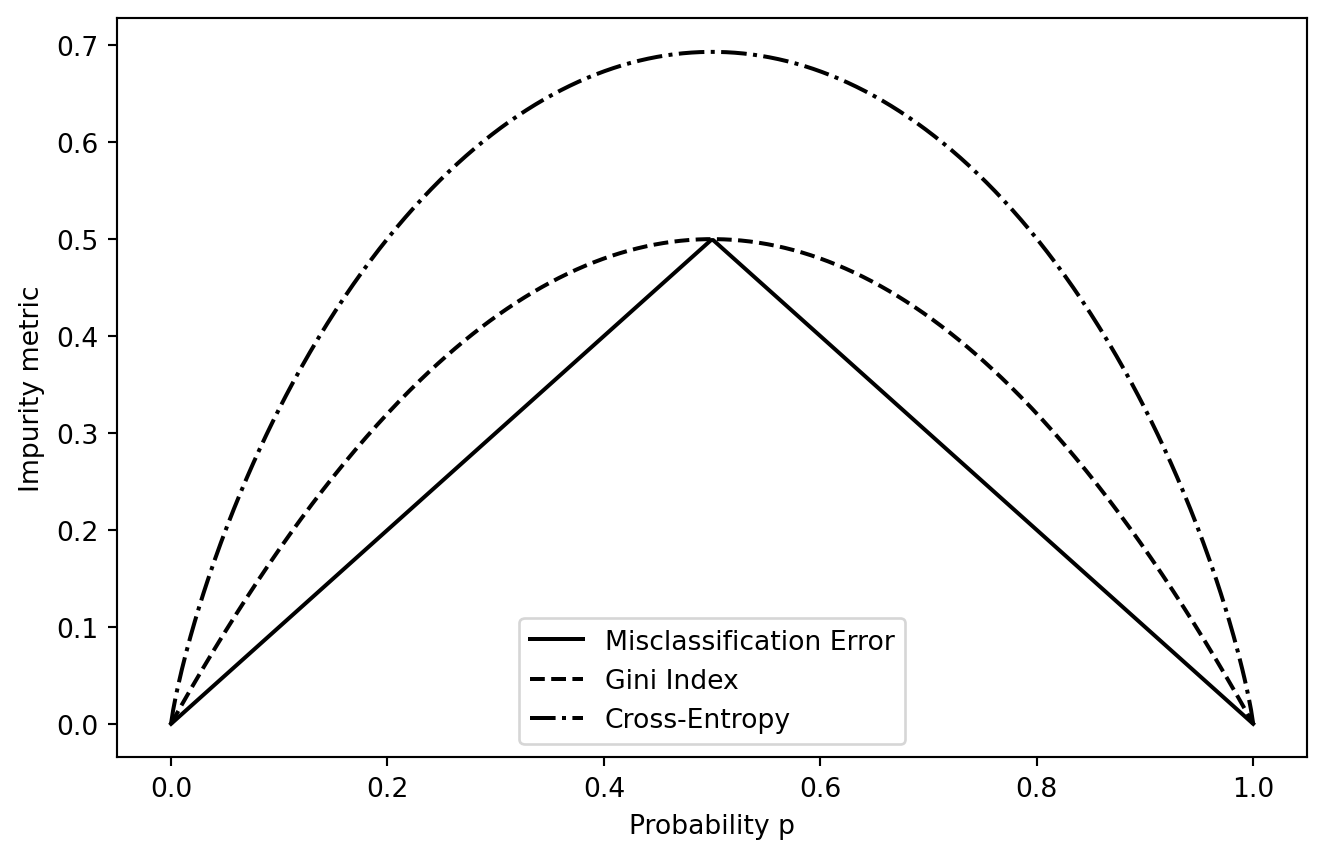
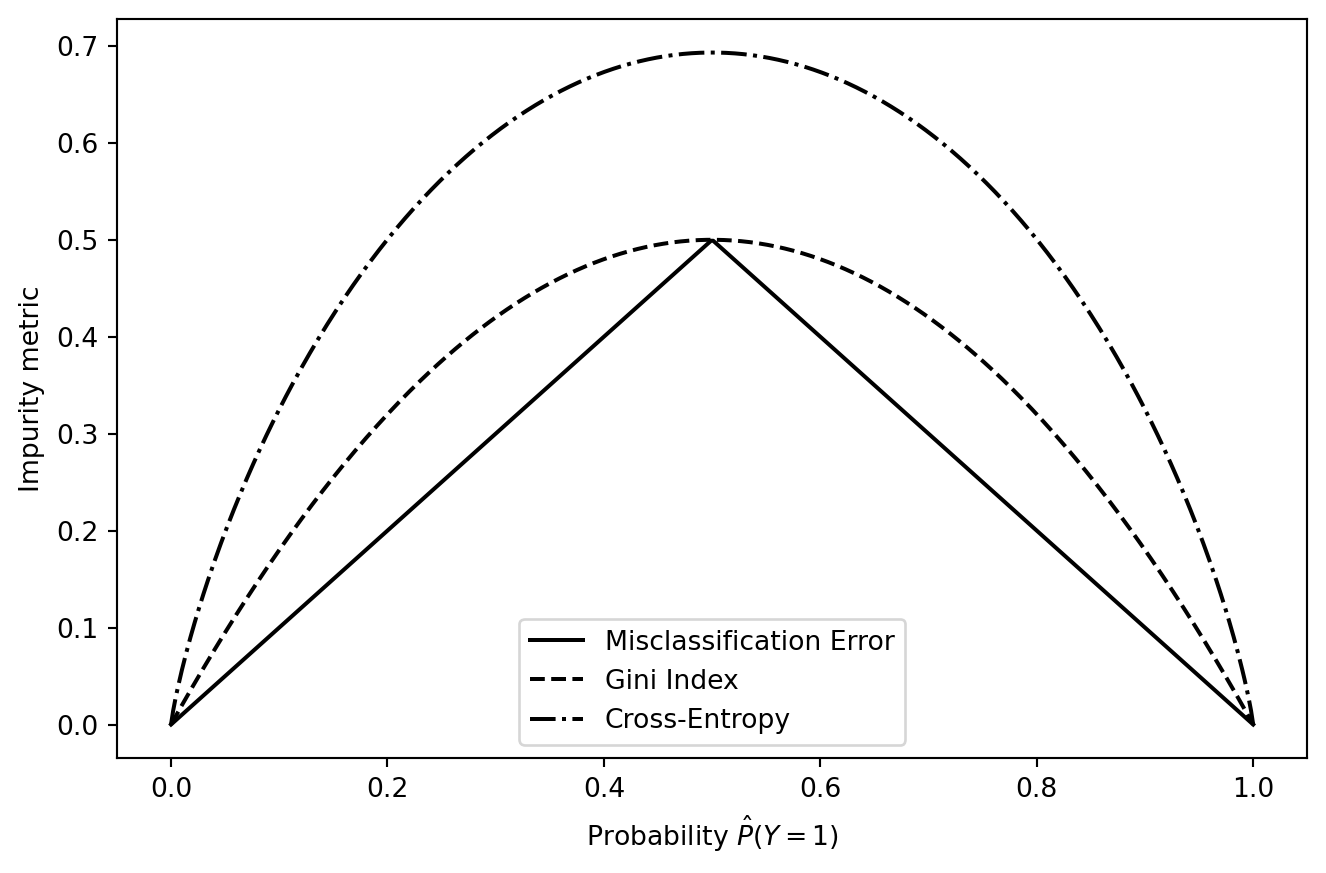
Finishes c09 text

diff --git a/c09_trees_rf/c09_trees_rf.html b/c09_trees_rf/c09_trees_rf.html
@@ -421,7 +421,7 @@
 <section class="slide level2">
 
 <h3 id="what-should-r_1-dots-r_m-be">What should <span class="math inline">\(R_1, \dots, R_M\)</span> be?</h3>
-<div id="0a85755c" class="cell" data-execution_count="1">
+<div id="7dc282fc" class="cell" data-execution_count="1">
 <div class="cell-output cell-output-display">
 <div>
 <figure>
@@ -454,7 +454,7 @@
 <section class="slide level2">
 
 <h3 id="how-does-a-doctor-think">How does a doctor think?</h3>
-<div id="55b20c0f" class="cell" data-execution_count="2">
+<div id="283c4f12" class="cell" data-execution_count="2">
 <div class="cell-output cell-output-display">
 <div>
 <figure>
@@ -717,7 +717,7 @@
 <section class="slide level2">
 
 <h3 id="example-credit-data">Example: credit data</h3>
-<div id="b48b395f" class="cell" data-execution_count="3">
+<div id="eabb4169" class="cell" data-execution_count="3">
 <div class="cell-output cell-output-display">
 <div>
 <figure>
@@ -747,7 +747,7 @@
 <section class="slide level2">
 
 <h3 id="example-credit-data-1">Example: credit data</h3>
-<div id="21ac70ed" class="cell" data-execution_count="4">
+<div id="3bec6b4d" class="cell" data-execution_count="4">
 <div class="cell-output cell-output-display">
 <div>
 <figure>
@@ -781,7 +781,7 @@
 <h2>Classification Trees</h2>
 <aside class="notes">
 <div style="direction:rtl; font-size:16px">
-
+<p>נעבור עכשיו לעצים לקלסיפיקציה לK קלאסים, ונראה שנשאר לנו מעט מאוד לשנות.</p>
 </div>
 <style type="text/css">
         span.MJX_Assistive_MathML {
@@ -800,7 +800,7 @@
 <h3 id="how-to-split-1">How to split?</h3>
 <div>
 <ul>
-<li class="fragment">Criterion: Minimize <span style="color:red;">Impurity</span> on training:</li>
+<li class="fragment">Criterion: Minimize <span style="color:red;">impurity</span> on training:</li>
 <li class="fragment">If <span class="math inline">\(\hat{p}_{kL}, \hat{p}_{kR}\)</span> are the left and right empricial probabilities for each class <span class="math inline">\(k\)</span>, and <span class="math inline">\(\hat{y}_{L}, \hat{y}_{R}\)</span> are the most common classes:
 <ul>
 <li class="fragment">Misclassification error: <span class="math display">\[MC(j,s) = \sum_{i \in L(j,s)} \mathbb{I}\{y_i \neq \hat{y}_L\} + \sum_{i \in R(j,s)} \mathbb{I}\{y_i \neq \hat{y}_R\}\]</span></li>
@@ -812,7 +812,12 @@
 </div>
 <aside class="notes">
 <div style="direction:rtl; font-size:16px">
-
+<p>הקריטריון שאנחנו עושים לו מינימיזציה כשאנחנו בוחנים ספליט נקרא באופן כללי אימפיוריטי, כי אנחנו רוצים לבדוק עד כמה החלוקה הופכת את שני הנודים שנוצרים ל”טהורים” כלומר עד כמה הם מכינים רק קלאס אחד של תצפיות.</p>
+<p>נסמן בp_hat את שיעור התצפיות מקלאס K בנוד השמאלי ובנוד הימני. ונסמן בy_hat את הקלאס שהוא הרוב בנוד השמאלי ובימני.</p>
+<p>אפשרות אחת היא לעשות מינימום למיסקלסיפיקיישן ארור: שגיאת הפיצול היא מספר התצפיות שלא שוות לקלאס הרוב בצד שמאל, ועוד מספר התצפיות שלא שוות לקלאס הרוב בצד ימין.</p>
+<p>אפשרות נוספת פופולרית היא מדד הג’יני. ניקח לדוגמא את צד שמאל עם nL תצפיות. אם נחשוב על איזשהו משתנה Z שסופר כמה מהתצפיות האלה שייכות לקלאס k מסוים, כשההסתברות לקלאס k היא p_hatK, אז אפשר למדל משתנה כזה כמשתנה בינומי, והשונות שלו היא הרכיב שרשום כאן: N כפול P כפול 1 פחות P. כלומר אפשר לחשוב על מדד ג’יני כסוכם את השונויות של משתנים בינומיים שסופרים כמה מהתצפיות ה מכל קלאס. תיכף ננסה לתת תחושה איך זה נראה.</p>
+<p>אפשרות נוספת היא קרוס-אנתרופי. גם לקרוס אנתרופי יש הצדקה, זה מדד מתחום תורת האינפורמציה שמנסה לכמת כמה קל להעביר מידע על וקטור של נתונים. במקרה שלנו, להעביר וקטור שעבור כל תצפית אומר מאיזה קלאס היא. אם כל התצפיות אחידות מאותו קלאס למשל, צריך להעביר רק נתון אחד, מה הקלאס של התצפית הראשונה, והקרוס אנתרופי יהיה נמוך מאוד. הכי גרוע זה אם כל התצפיות שונות ואז נצטרך להעביר את כל הנתונים של הוקטור, תצפית אחר תצפית, והקרוס-אנתרופי יהיה מאוד גבוה. כלומר זה מדד טוב לאימפיוריטי של הספליט שאנחנו רוצים לבצע.</p>
+<p>לוקח זמן להתרגל למדדים האלה, אבל החדשות הטובות הן שחוץ מהשינוי הזה האלגוריתם של בניית עץ שלמדנו נשאר בדיוק אותו דבר. למשל גם הקריטריון לעצירה נשאר אותו דבר, אפשר לעצור רק כשמגיעים לעומק מקסימלי של צמתים, אפשר לעשות פרונינג, המדד שישמש אותנו לקריטריון פרונינג יהיה אחד המדדים שאנחנו רואים כאן של אימפיוריטי, במקום RSS.</p>
 </div>
 <style type="text/css">
         span.MJX_Assistive_MathML {
@@ -830,11 +835,11 @@
 
 <h3 id="on-impurity-measures">On impurity measures</h3>
 <p>For a single node, <span class="math inline">\(K = 2\)</span> classes, no weighing:</p>
-<div id="070699a1" class="cell" data-execution_count="5">
+<div id="05d8e44a" class="cell" data-execution_count="5">
 <div class="cell-output cell-output-display">
 <div>
 <figure>
-<p><img data-src="c09_trees_rf_files/figure-revealjs/cell-6-output-1.png" width="663" height="429"></p>
+<p><img data-src="c09_trees_rf_files/figure-revealjs/cell-6-output-1.png" width="663" height="437"></p>
 </figure>
 </div>
 </div>
@@ -853,7 +858,11 @@
 </div>
 <aside class="notes">
 <div style="direction:rtl; font-size:16px">
-
+<p>בכל-זאת כדי לתת תחושה של ההבדל בין המדדים אפשר לצייר מה הם יגידו כפונקציה של p_hat, הפרופורציה שY יהיה מקלאס אחד לעומת קלאס אחר בבעיה בינארית. כאן המיסקלסיפיקיישן ארור יהיה בעצם המינימום בין p ל-1 פחות p.&nbsp;הג’יני יהיה פעמיים p כפול 1 פחות p.&nbsp;והקרוס-אנתרופי יהיה p כפול לוג p, ועוד 1 פחות p כפול לוג של 1 פחות p, על כל זה מינוס.</p>
+<p>הדבר הראשון שבולט הוא ששלושת המדדים מסכימים שהכי גרוע זה אם P הוא חצי, כלומר התצפיות בנוד מסוים מתחלקות חצי חצי בין שני הקלאסים. זה מצב של חוסר ודאות מוחלט. שלושתם מקבלים את המקסימום שלהם בנקודה הזאת.</p>
+<p>הדבר השני שבולט הוא שבעוד שלמיסקלסיפיקיישן רייט יש נקודת חוסר רציפות כאן והעונש שלו עולה ויורד בצורה ליניארית, שני המדדים האחרים רציפים ומענישים הרבה יותר פרופורציות נמוכות מדי וגבוהות מדי, כלומר מענישים יותר פרופורציות ברגע שהנוד מתחיל להיות רק קצת לא טהור.</p>
+<p>ומסתבר שיש לזה השפעה, אנחנו בדרך כלל ניקח את מדד הג’יני או הקרוס אנתרופי לגידול העץ ולא את המיסקלסיפיקיישן ארור. למה? כי הוא קצת חסר רגישות. אפשר להישאר בעולם של קלספיקציה בינארית ולחשוב למשל על 400 תצפיות שמגיעות לצומת, מתוכן 200 מקלאס 0 ו200 מקלאס 1. נניח שיש שני מועמדים לפיצול, פיצול אחד נותן: ((150, 50), (50, 150)) פיצול אחר נותן: ((100, 200), (100, 0)) מבחינת מיסקלסיפיקיישן ארור, שני הספליטים זהים, 0.25 מהתצפיות לא מסווגות לקלאס הרוב. אבל ברור לנו שהחלוקה השניה היא קצת טובה יותר, היא מצאה דרך ליצור נוד טהור לגמרי, 100 תצפיות או רבע מהנתונים שלגביהם אין ספק. ושני המדדים האחרים ג’יני וקרוס אנתרופי יהיו נמוכים יותר, הם יהיו רגישים לזה ויעדיפו את הספליט השני.</p>
+<p>בזה אנחנו מסכמים את ההתייחסות לעצים לקלסיפיקציה, בחלק הבא נראה כמה דברים שעצים לקלסיפיקציה וגם לרגרסיה עושים טוב מאוד, כמה דברים שהם עושים רע מאוד, ואיך בסופו של דבר נשתמש בהם כדי ליצור את אחד המודלים החזקים ביותר בלמידת מכונה.</p>
 </div>
 <style type="text/css">
         span.MJX_Assistive_MathML {
@@ -871,7 +880,7 @@
 <h2>Trees issues</h2>
 <aside class="notes">
 <div style="direction:rtl; font-size:16px">
-
+<p>מה עצים טובים בו במיוחד? מה הם גרועים בו במיוחד? בחלק הזה נסכם את היתרונות והחסרונות של עצים.</p>
 </div>
 <style type="text/css">
         span.MJX_Assistive_MathML {
@@ -893,11 +902,11 @@
 <li class="fragment">Ordered categorical variables: treat exactly as continuous</li>
 <li class="fragment">Unordered categorical variables:
 <ul>
-<li class="fragment">All subsets exhaustive search? Two main issues:</li>
+<li class="fragment">All subsets exhaustive search? (two main problems)</li>
 <li class="fragment">Grouping for values with too few observations</li>
 <li class="fragment">CART approach:
 <ul>
-<li class="fragment">For each category <span class="math inline">\(h_q\)</span> denote <span class="math inline">\(\bar{y}_q\)</span> the average of the observations of class <span class="math inline">\(q\)</span> in the current node.</li>
+<li class="fragment">For each category <span class="math inline">\(q\)</span> denote <span class="math inline">\(\bar{y}_q\)</span> the average of the observations of class <span class="math inline">\(q\)</span> in the current node.</li>
 <li class="fragment">Sort categories in increasing order of <span class="math inline">\(\bar{y}_q\)</span> : <span class="math inline">\(\bar{y}_{(1)} \leq \bar{y}_{(2)} \leq \ldots \leq \bar{y}_{(Q)}\)</span></li>
 <li class="fragment">The optimal split on the training data is guaranteed to be one of the <span class="math inline">\(Q-1\)</span> splits along this list</li>
 <li class="fragment">For 2-class classification, we simply replace <span class="math inline">\(\bar{y}_q\)</span> with <span class="math inline">\(\hat{p}_q\)</span></li>
@@ -907,7 +916,13 @@
 </div>
 <aside class="notes">
 <div style="direction:rtl; font-size:16px">
-
+<p>מה לגבי משתנים קטגוריאליים? דיברנו עליהם גם כשהתמקדנו במודל הליניארי, שם העלינו את האפשרות לקודד Q רמות של המשתנה הקטגוריאלי לQ - 1 משתנים בינאריים, קראנו לזה OHE.</p>
+<p>אפשר עקרונית לעשות את זה גם בעצים, אבל בעצים יש אפשרות טובה יותר.</p>
+<p>קודם כל אני מקווה שברור שהם המשתנה הוא אורדינלי, למשל רמת השכלה, אפשר להתייחס אליו כמשתנה רציף עם Q רמות ולהמשיך כרגיל, לבחון את האפשרות לעשות ספליט בין כל שתי רמות עוקבות.</p>
+<p>אם הוא לא אורדינלי, אפשרות אחת היא לעשות חיפוש על פני כל האפשרויות לחלק את Q הקטגוריות לשתי קבוצות. אבל זה בעייתי משתי סיבות: אחת חישובית, מספר האפשרויות שנצטרך לבדוק בכל צומת הוא סדר גודל של 2 בחזקת Q, מה שיכול להתפוצץ מהר מאוד. סיבה אחרת היא סטטיסטית, גם אם היה לנו מחשב על שאין לו בעיה לבדוק 2 בחזקת Q אפשרויות לפיצול רק על המשתנה הזה, הסיכון לאוברפיטינג גדול מאוד. בכל צומת יש סיכוי סביר שבקומבינציה ספציפית של קבוצה מסוימת של קטגוריות עם מעט מאוד תצפיות באחד הנודים אחרי הפיצול, נקבל שכולן מקלאס מסוים – אבל זה רק במקרה!</p>
+<p>אפשרות שתמיד צריך לשקול אותה היא לאחד קטגוריות עם מעט תצפיות לקטגוריה אחת ובכך להוריד את המימד של המשתנה הקטגוריאלי שלנו.</p>
+<p>אבל מסתבר שעצים יכולים לעשות דבר נוסף: נחשב עבור כל קטגוריה את הממוצע של Y ונמיין את הממוצעים האלה בסדר עולה. אפשר להוכיח שהספליט הטוב ביותר נמצא בחיפוש רגיל על וקטור הממוצעים הזה, לפי הסדר, כלומר ירדנו שוב לQ - 1 אפשרויות, כמו משתנה קטגוריאלי אורדינלי.</p>
+<p>אם הבעיה היא קלסיפיקציה בינארית אפשר לעשות בדיוק אותו דבר על הפרופורציות של אחד הקלאסים, ממוינות בסדר עולה.</p>
 </div>
 <style type="text/css">
         span.MJX_Assistive_MathML {
@@ -939,7 +954,10 @@
 </div>
 <aside class="notes">
 <div style="direction:rtl; font-size:16px">
-
+<p>תחום אחר שעצים יכולים להועיל בו מאוד הוא טיפול בערכים חסרים. טיפול בערכים חסרים זה תחום עצום, שאפשר לבלות עליו סמסטר שלם, כמו לחשוב על למה ערכים הם חסרים והאם המנגנון הזה שיצר את החוסר צריך או לא להשפיע על המידול שלנו. רוב המודלים ניצבים בין שתי אפשרויות: להתעלם מתצפיות עם ערכים חסרים באחד המשתנים, מה שנשמע בעייתי מאוד בצדק ויכול להקטין משמעותית את מדגם הלמידה. ואפשרות אחרת זה להציב ערכים במשתנים שבהם יש לנו ערכים חסרים ורק אז להמשיך בלמידה. אפשר להציב את הממוצע או החציון של המשתנה על פני תצפיות שבהן הוא לא חסר. דרך מתוחכמת יותר היא לעשות רגרסיה של המשתנה על פני המשתנים האחרים, זה תיאור קצת פשטני של האלגוריתם EM שנלמד בהמשך.</p>
+<p>בעצים יש אפשרויות טבעיות יותר להכיל באופן טבעי תצפיות חסרות:</p>
+<p>דרך אחת היא באמצעות סארוגייט ספליטס או פיצולים פונדקאיים: במהלך בניית העץ, לכל פיצול J, S, נשמור גם פיצולים חלופיים על משתנים אחרים, שהם דומים לפיצול המקורי, כלומר הם מחלקים את המדגם בצורה דומה לפיצול המקורי. זה כמובן מנפח קצת על הדיסק את המודל שבסוף נשמר, אבל זה פרקטי מאוד. כשתגיע באימון או בחיזוי תצפית שאין לה ערך במשתנה שמפצל צומת, נעביר אותה בפיצול החלופי הבא שלגביו אין לה ערך חסר.</p>
+<p>אפשרות אחרת שאנחנו רואים במימושים של עצים, היא איפה שלתצפית I יש ערך חסר במשתנה J, לשלוח אותה גם ימינה וגם שמאלה. אם זה בזמן חיזוי, החיזוי הסופי שלה יהיה הממוצע של החיזויים בעלים שהיא הגיעה אליהם בסופו של דבר. היתרון כאן הוא שבמקרה כזה החיזוי שלה מקבל פירוש מפתה, זה בעצם התוחלת המותנית של Y כשלקחנו בחשבון שהתצפית חסרה, על פני אפשרויות שונות למילוי הערכים החסרים שלה.</p>
 </div>
 <style type="text/css">
         span.MJX_Assistive_MathML {
@@ -960,16 +978,18 @@
 <li>Highly interpretable, “neighborhoods” (when tree is not large, but see variance issue)</li>
 <li>Easy to implement (if-else statements)</li>
 <li>Fast (in prediction at least)</li>
-<li>Little pre-processing of predictors needed</li>
-<li>Handles all types of predictors (continuous, categorical)</li>
-<li>Handles missing data</li>
+<li>Little pre-processing of predictors needed (continuous, categorical, missing)</li>
 <li>Non-parameteric, non-linear, assumption free</li>
 <li>Feature selection built-in</li>
 <li>Low bias, in general</li>
 </ul>
 <aside class="notes">
 <div style="direction:rtl; font-size:16px">
-
+<p>נסכם את היתרונות של עצים: באופן כללי מדובר במודל די אינטואיטיבי שמחקה חשיבה בתרשים זרימה. אם הוא קטן גם אפשר ממש בכמה צעדים להבין איך החליט מה שהחליט – למרות שתיכף נסייג את זה.</p>
+<p>מלבד זאת, קל מאוד לממש עץ החלטה, בכל שפה שתרצו, זה בסך הכל אוסף של if else.</p>
+<p>זה מודל די מהיר לחיזוי עבור תצפיות חדשות, כמו שדיברנו אין צורך בטיפול מיוחד במשתנים כמו סטנדרטיזציה או טיפול במשתנים קטגוריאליים, או טיפול במשתנים עם ערכים חסרים.</p>
+<p>המודל א-פרמטרי, בלי הנחות מיוחדות, מסוגל לתאר יחסים לא-ליניאריים, יש לו פיצ’ר סלקשן בילט אין במובן שאם משתנה לא מופיע בעץ פשוט אין לו השפעה.</p>
+<p>ואנחנו רואים שעץ הוא מודל עם הטיה קטנה מאוד, תלוי כמובן בעומק שלו, ככל שיהיה עמוק יותר כך ירד הביאס.</p>
 </div>
 <style type="text/css">
         span.MJX_Assistive_MathML {
@@ -987,7 +1007,7 @@
 
 <h3 id="trees-disadvantages">Trees disadvantages</h3>
 <div class="fragment">
-<div id="b91d6600" class="cell" data-execution_count="6">
+<div id="0f1e7424" class="cell" data-execution_count="6">
 <div class="cell-output cell-output-display">
 <div>
 <figure>
@@ -999,7 +1019,10 @@
 </div>
 <aside class="notes">
 <div style="direction:rtl; font-size:16px">
-
+<p>אז זה נשמע שיש המון יתרונות לעצי החלטה. מה עם חסרונות?</p>
+<p>חיסרון אחד שיש בכל מודל שאנחנו לומדים מגיע ממשפט הנו פרי לאנץ’, לכל מודל אני יכול למצוא נתונים שמאוד לא מתאימים לו, ובמקרה של עץ החלטה הטענה היא שאני יכול בקלות רבה מדי.</p>
+<p>מה שאנחנו רואים כאן זו בעיה של קלסיפיקציה לשני קלאסים, עבור שני פיצ’רים, X1 וX2. מצד שמאל אפשר לראות שהקלאסים הם מה שנקרא ליניארלי ספרבל, אפשר למצוא קו רגרסיה לוגיסטית שיפריד בין הקלאסים בקלות. זה יחס פשוט מאוד ונפוץ מאוד בנתונים אמיתיים. אבל עץ נורא מתקשה עם יחס כזה בין X לY. תראו איזה סלטות באוויר הוא עושה עם ההתעקשות שלו לחלק את המרחב רק עם קווים מקבילים לצירים. (להדגים) ואתם יכולים לדמיין לעצמכם שהעץ הזה עמוק מאוד ודי מסובך.</p>
+<p>כדי לא לקפח את העץ ציירנו כאן גם מצב הפוך, של יחס לא ליניארי בין X לקלאס Y, שעץ ממדל בצורה יחסית קלה ורגרסיה לוגיסטית נכשל לגמרי, כל מה שיש לרגרסיה לוגיסטית זה קו ישר.</p>
 </div>
 <style type="text/css">
         span.MJX_Assistive_MathML {
@@ -1017,15 +1040,21 @@
 
 <h3 id="trees-disadvantages-1">Trees disadvantages</h3>
 <ul>
-<li>Intuitive appeal is misleading: very unstable, sensitive to small changes in data</li>
 <li>Lack of smoothness: rectangular predictor regions are not always a good thing</li>
-<li>Complexity of prediction limited in no. of leaves! (For a simple CART)</li>
+<li>Intuitive appeal is misleading: very unstable, sensitive to small changes in data</li>
 <li>Greedy: no guarantee for optimality</li>
+<li>Complexity of prediction limited in no. of leaves! (For a simple CART)</li>
 <li>HIGH VARIANCE <span class="math inline">\(\Rightarrow\)</span> not a competitive model in terms of prediction accuracy!</li>
 </ul>
 <aside class="notes">
 <div style="direction:rtl; font-size:16px">
-
+<p>יש עוד הרבה חסרונות לעצי החלטה:</p>
+<p>מה שכרגע הדגמנו הוא שהם מודלים מאוד לא חלקים וקשה להם לתאר פונקציות חלקות, עם איזורי ההחלטה המלבניים שלהם.</p>
+<p>גם מה שאמרנו קודם על מודל אינטואיטיבי שקל להסביר זה לא מדויק - בפועל עצים הם מודלים לא יציבים במובן שהם רגישים מאוד לשינויים קלים בדאטא אמיתי, לא דאטא מסומלץ.</p>
+<p>זה נובע בעיקר מהאופן הגרידי שלהם, שפיצולים ראשונים במעלה העץ יש להם המון השפעה על האפשרויות של המודל להתפצל בהמשך. זה נובע גם מהנוקשות של איזורי החלטה מלבניים.</p>
+<p>וזה נובע גם מהמוגבלות של עץ לתאר איזושהי תופעה בשורה התחתונה במספר סופי של עלים. תחשבו על זה שעץ רגרסיה עם עומק מקסימלי של 3 בסופו של דבר נותן לנו מקסימום 8 שכונות, כלומר 8 מספרים אפשריים של חיזוי.</p>
+<p>בשורה התחתונה זה עניין של שונות. הביאס אולי נמוך, אבל השונות גבוהה מאוד, מה שמביא לתופעה שבנתונים אמיתיים עץ החלטה פשוט לא מדייק מבחינת חיזוי וכמעט תמיד אפשר למצוא מודלים עם דיוק גבוה יותר.</p>
+<p>אז בשביל מה אנחנו לומדים על עצים?! אנחנו לומדים על עצים כי אמנם עץ אחד הוא מודל די מוגבל, אבל יער של עצים, הוא כבר מודל עוצמתי למדי.</p>
 </div>
 <style type="text/css">
         span.MJX_Assistive_MathML {
@@ -1043,7 +1072,7 @@
 <h2>Random Forests</h2>
 <aside class="notes">
 <div style="direction:rtl; font-size:16px">
-
+<p>אז איך משלבים קבוצה של עצים ליער?</p>
 </div>
 <style type="text/css">
         span.MJX_Assistive_MathML {
@@ -1075,8 +1104,8 @@
 </div>
 <aside class="notes">
 <div style="direction:rtl; font-size:16px">
-<p>ביחידה הזאת נלמד על שיטות אנסמבל, שעושות קומבינציה של מודלים חלשים רבים, למודל חזק במיוחד. אמרנו כבר כשלמדנו על עצי החלטה שהם מודלים מוגבלים עם שונות גבוהה, ושאלנו את עצמנו – למה עץ אחד? למה לא יער?</p>
-<p>נראה היום שתי שיטות אנסמבל מבוססות עצים. הראשונה רנדום פורסט, שמבוססת על מיצוע של הרבה עצים שונים, והשנייה בוסטינג שבה אנחנו בונים עץ אחרי עץ בצורה אדפטיבית.</p>
+<p>בחלק הזה נלמד על שיטת אנסמבל, שעושה קומבינציה של מודלים חלשים רבים, למודל חזק במיוחד.</p>
+<p>נראה בקורס שתי שיטות אנסמבל מבוססות עצים. הראשונה רנדום פורסט, שמבוססת על מיצוע של הרבה עצים שונים, והשנייה בוסטינג שבה אנחנו בונים עץ אחרי עץ בצורה אדפטיבית.</p>
 <p>נתחיל ברנדום פורסט. במקום להתאים עץ אחד לנתונים, אנחנו נתאים הרבה. אבל לא נתאים אותם לאותם הנתונים, אחרת אין הבדל. נתאים אותם כל פעם על דאטא קצת אחר, דאטא שעבר רנדומיזציה, בשתי דרכים שונות. לבסוף נמצע את העצים – החיזוי לכל תצפית יהיה ממוצע שלה על פני הרבה עצים, ונראה שכך נטפל באופן ישיר בבעיות של העץ היחיד.</p>
 </div>
 <style type="text/css">
@@ -1108,7 +1137,7 @@
 </div>
 <aside class="notes">
 <div style="direction:rtl; font-size:16px">
-<p>ניזכר בערך המיצוע. מה מיצוע נותן לנו? אנחנו מכירים את זה מהתפלגות הממוצע או ממשפט הגבול המרכזי. אם משתנה מקרי Z_i, מתפלג לפי איזושהי התפלגות F עם תוחלת מיו ושונות סיגמא בריבוע, ואני לוקח m תצפיות כאלה בלתי תלויות, אז השונות של ממוצע המדגם המקרי קטנה פי m. כלומר ככל שm גדול כך הפיזור סביב הממוצע קטן והוא מתקרב לתוחלת האמיתית מיו.</p>
+<p>ניזכר בערך המיצוע. מה מיצוע נותן לנו? אנחנו מכירים את זה משונות הממוצע או מהתפלגות הממוצע לפי משפט הגבול המרכזי. אם משתנה מקרי Z_i, מתפלג לפי איזושהי התפלגות F עם תוחלת מיו ושונות סיגמא בריבוע, ואני לוקח m תצפיות כאלה בלתי תלויות, אז השונות של ממוצע המדגם המקרי קטנה פי m. כלומר ככל שm גדול כך הפיזור סביב הממוצע קטן והוא מתקרב לתוחלת האמיתית מיו.</p>
 <p>ונניח שהתצפיות הן לא בלתי תלויות. לא רק שהן לא בלתי תלויות, הן תלויות לחלוטין, הן אותה תצפית בדיוק, שחוזרת על עצמה m פעמים. מה יהיה אז הממוצע? התצפית עצמה כמובן. והאם הקטנו את השונות של ההתפלגות המקורית? בכלל לא, נישאר עם השונות המקורית סיגמא בריבוע. כלומר יש כאן איזשהו טווח מתצפיות בלתי תלויות לחלוטין ועד תצפיות תלויות לחלוטין, וההקטנה של סיגמא בריבוע בהתאם.</p>
 <p>נסתכל על מצב ביניים, שהתצפיות לא בלתי תלויות לחלוטין אבל גם לא חוזרות על עצמן, המתאם בין זוג תצפיות הוא איזשהו רו שקטן מ1, כלומר הקווריאנס יהיה סיגמא בריבוע כפול רו.</p>
 <p>אפשר לראות שכעת שונות ממוצע המדגם היא בקירוב רו סיגמא בריבוע, ועוד 1 מינוס רו כפול סיגמא בריבוע חלקי m. זאת אומרת כשרו שווה ל1, תלות מושלמת, אנחנו נשארים עם סיגמא בריבוע השונות המקורית, וכשרו שווה לאפס, שזה אומר תצפיות בלתי תלויות, נקבל את סיגמא בריבוע חלקי m, שונות מדגם מקרי המוכרת לנו.</p>
@@ -1174,7 +1203,7 @@
 <section class="slide level2">
 
 <h3 id="example-credit-data-2">Example: credit data</h3>
-<div id="be379a49" class="cell" data-execution_count="7">
+<div id="f9417f39" class="cell" data-execution_count="7">
 <div class="cell-output cell-output-display">
 <div>
 <figure>
